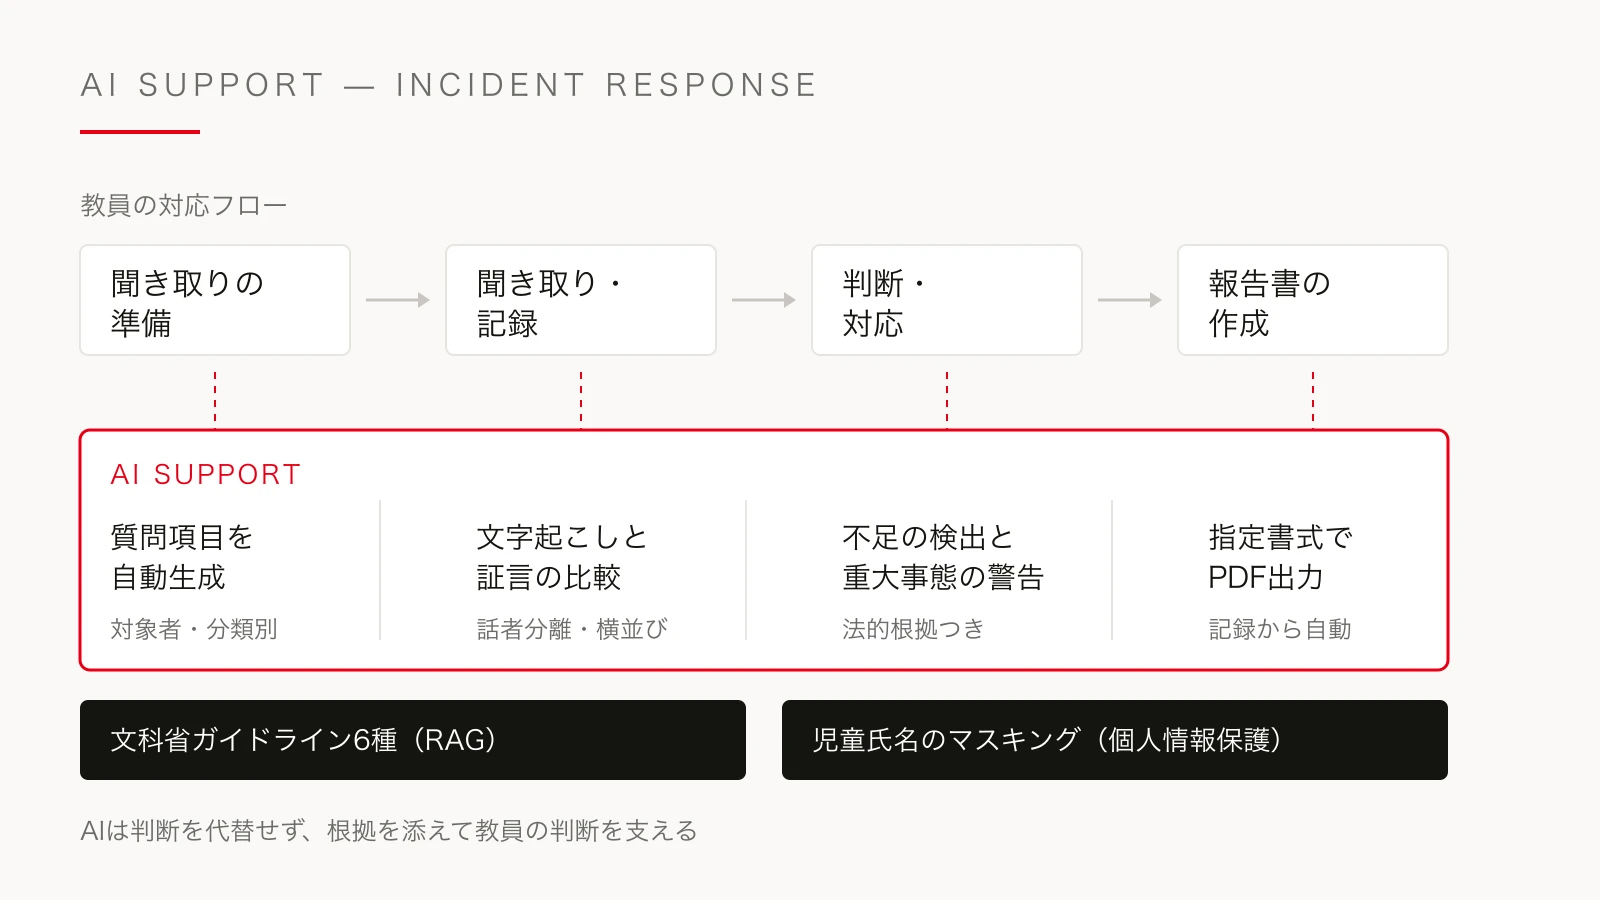
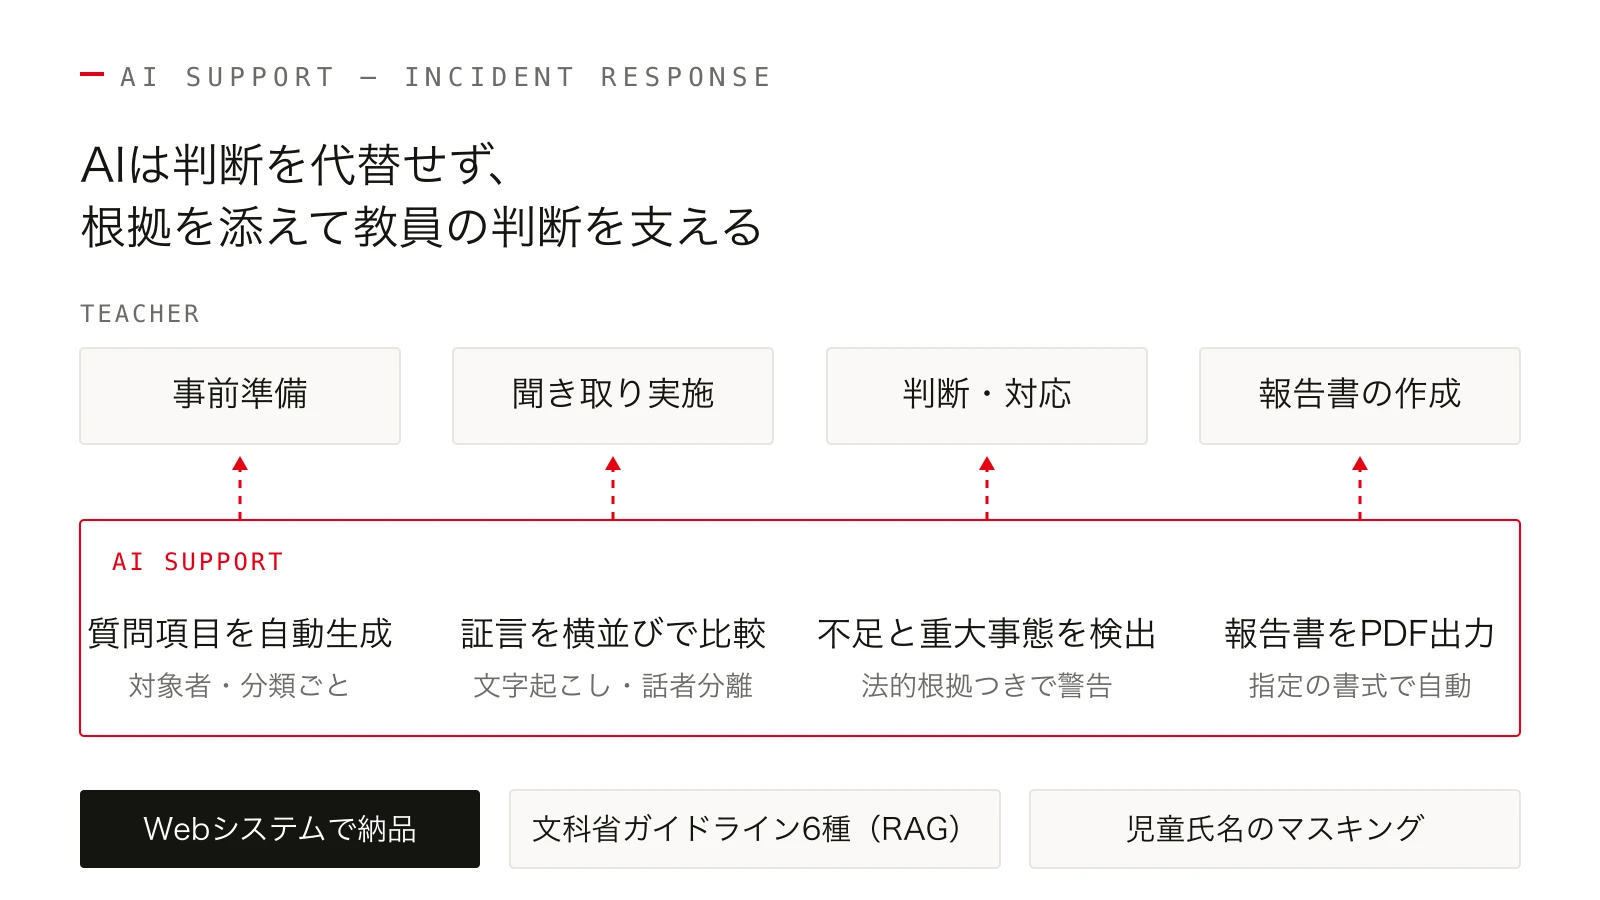
style(works): 構成図をレビュー指摘にもとづき作り直し
一覧カード（実表示370px前後）では細部が読めないため、日本語の
価値命題を最大サイズで先頭に置き、詳細は補足の位置に下げた。

2枚で表現ルールを統一した。赤枠=JQITが構築した範囲、赤の破線矢印=
AIが支援する接続、黒=顧客が受け取る納品物、クリーム地=外部データ・
前提。以前は黒が納品物と前提条件の両方を指していた。

サイトの作法にも合わせた。角丸は --radius-card: 2px 相当、罫線は
表示1px相当、色は globals.css のトークンのみ、英字ラベルは等幅
フォントで字間を em 基準に、赤い短線はラベルの左（Kicker と同じ）。

SVG ソースと作図ルールを scripts/diagrams/ に残した。

diff --git a/scripts/diagrams/README.md b/scripts/diagrams/README.md
@@ -1,0 +1,29 @@
+# 実績ページの構成図
+
+顧客システムの画面は公開許諾が無いため、実績のアイキャッチには
+「何をどう作ったか」を示す構成図を使う。ここに SVG のソースを置き、
+WebP に書き出したものを `public/works/` に配置する。
+
+```bash
+node -e "require('sharp')('scripts/diagrams/<name>.svg',{density:144}).resize(1600,900).webp({quality:90}).toFile('public/works/<name>.webp')"
+```
+
+ファイル名は microCMS の works コンテンツID に合わせる
+（`lib/works.ts` の `defaultWorkMedia` で対応づけている）。
+
+## 2枚で共通のルール
+
+| 表現 | 意味 |
+|---|---|
+| 赤枠 `#e60012` | JQIT が構築した範囲 |
+| 赤の破線矢印 | AI が支援する接続 |
+| 黒 `#14140f` | 顧客が受け取る納品物 |
+| クリーム地＋罫線 | 外部データ・既存業務・前提 |
+
+サイトの作法に合わせる点:
+
+- 角丸は `rx="4"`（表示時に約2px。`--radius-card: 2px` に合わせる）
+- 罫線は `stroke-width="2"`（表示時に約1px）
+- 色は `app/globals.css` のトークンのみ使う（`#e60012` / `#14140f` / `#6b6b67` / `#e7e5e0` / `#faf9f7` / `#f2f1ee`）
+- 英字ラベルは等幅フォント、字間は em 基準（0.24em / 0.12em）、左に赤い短線を置く
+- 最小文字は 28px（一覧カードの縮小表示に耐えるため）
